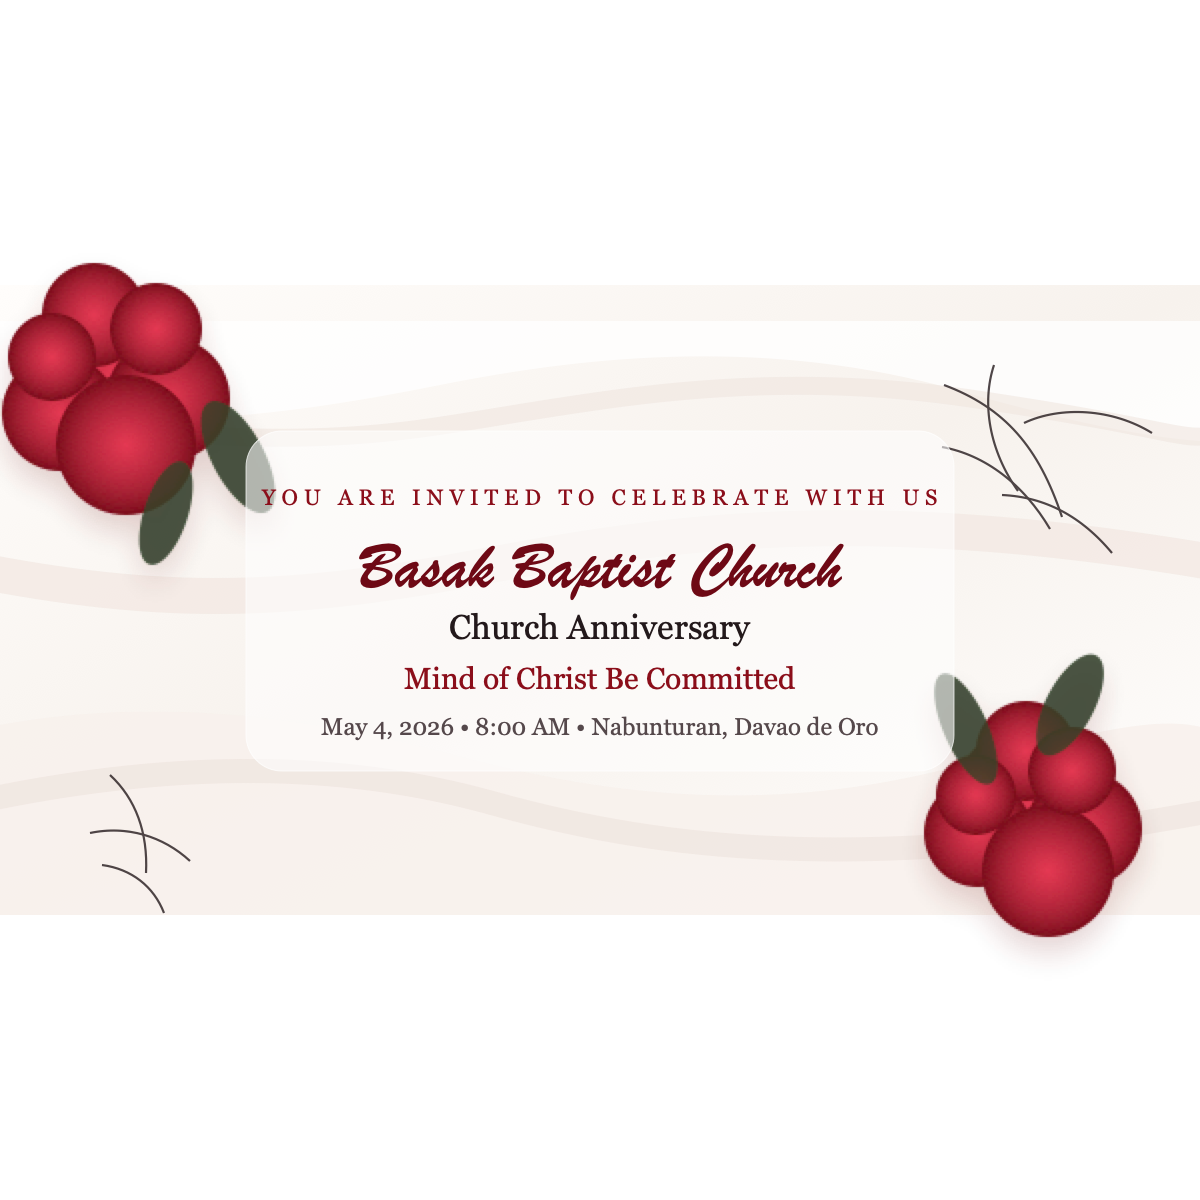
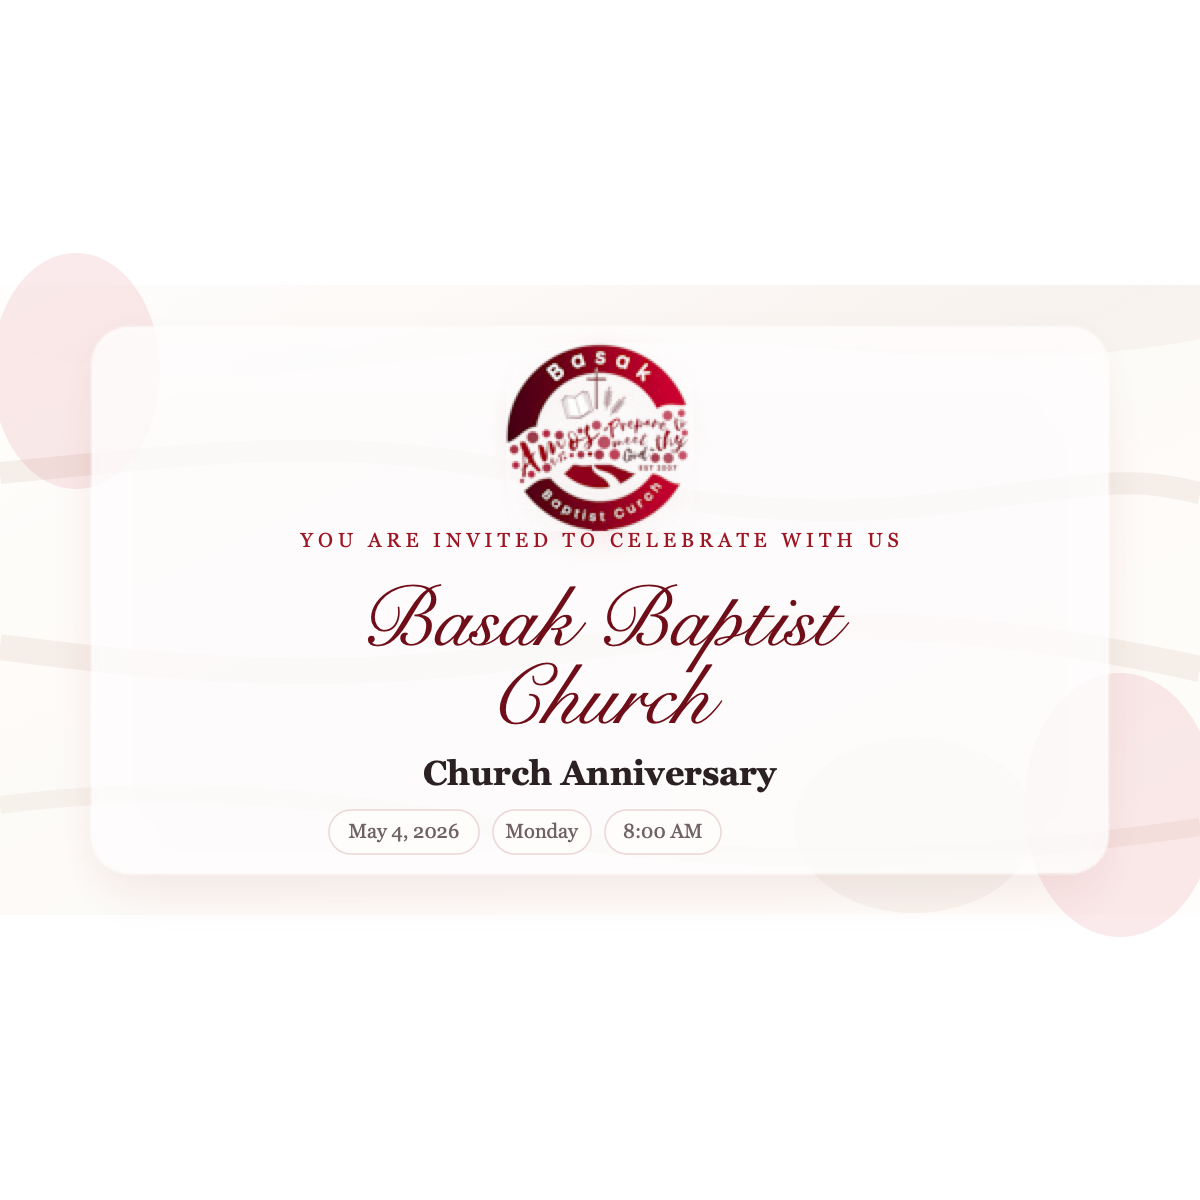
Update OG image and metadata for church anniversary invitation

diff --git a/index.html b/index.html
@@ -15,8 +15,7 @@
     <meta name="author" content="Basak Baptist Church" />
     <meta name="robots" content="index,follow" />
     <meta name="theme-color" content="#8b0e1a" />
-    <!-- Replace example.com with your real deployed URL before sharing publicly so OG previews resolve correctly. -->
-    <link rel="canonical" href="https://example.com/basak-baptist-church-anniversary/" />
+    <link rel="canonical" href="https://bbc-anniv.vercel.app/" />
     <link rel="icon" type="image/png" href="./assets/favicon-logo.png" />
     <link rel="apple-touch-icon" href="./assets/favicon-logo.png" />
 
@@ -26,11 +25,14 @@
       property="og:description"
       content="Join us as we celebrate the Basak Baptist Church Anniversary on May 4, 2026 at 8:00 AM in Nabunturan, Davao de Oro."
     />
-    <meta property="og:image" content="https://example.com/basak-baptist-church-anniversary/assets/og-image-wide.png" />
-    <meta property="og:image:alt" content="Elegant church anniversary invitation with red flowers on a silky white background" />
+    <meta property="og:image" content="https://bbc-anniv.vercel.app/assets/og-image-wide.png" />
+    <meta property="og:image:url" content="https://bbc-anniv.vercel.app/assets/og-image-wide.png" />
+    <meta property="og:image:secure_url" content="https://bbc-anniv.vercel.app/assets/og-image-wide.png" />
+    <meta property="og:image:type" content="image/png" />
+    <meta property="og:image:alt" content="Basak Baptist Church anniversary landing page preview" />
     <meta property="og:image:width" content="1200" />
     <meta property="og:image:height" content="630" />
-    <meta property="og:url" content="https://example.com/basak-baptist-church-anniversary/" />
+    <meta property="og:url" content="https://bbc-anniv.vercel.app/" />
     <meta property="og:type" content="website" />
     <meta property="og:site_name" content="Basak Baptist Church" />
 
@@ -40,7 +42,11 @@
       name="twitter:description"
       content="Join us as we celebrate the Basak Baptist Church Anniversary on May 4, 2026 at 8:00 AM in Nabunturan, Davao de Oro."
     />
-    <meta name="twitter:image" content="https://example.com/basak-baptist-church-anniversary/assets/og-image-wide.png" />
+    <meta name="twitter:image" content="https://bbc-anniv.vercel.app/assets/og-image-wide.png" />
+    <meta name="twitter:image:alt" content="Basak Baptist Church anniversary landing page preview" />
+    <meta name="twitter:url" content="https://bbc-anniv.vercel.app/" />
+
+    <link rel="image_src" href="https://bbc-anniv.vercel.app/assets/og-image-wide.png" />
 
     <link rel="stylesheet" href="./styles.css" />
   </head>

diff --git a/styles.css b/styles.css
@@ -601,7 +601,7 @@ main::before {
 
   .section--location .container,
   .footer .container {
-    max-width: 780px;
+    max-width: 720px;
   }
 
   .section--location .section-kicker {
@@ -614,7 +614,7 @@ main::before {
   }
 
   .section--location .section-heading h2 {
-    font-size: clamp(1.55rem, 2.6vw, 2.15rem);
+    font-size: clamp(1.4rem, 2.35vw, 1.95rem);
   }
 
   .detail-card {
@@ -667,29 +667,29 @@ main::before {
   }
 
   .location-card iframe {
-    min-height: 208px;
+    min-height: 188px;
   }
 
   .location-card__content {
-    gap: 12px;
-    padding: 12px 14px;
+    gap: 10px;
+    padding: 10px 12px;
   }
 
   .location-card__content p {
-    font-size: 0.74rem;
+    font-size: 0.7rem;
   }
 
   .footer {
-    padding: 0 0 46px;
+    padding: 0 0 40px;
   }
 
   .footer p {
-    font-size: 0.76rem;
+    font-size: 0.72rem;
   }
 
   .footer-actions {
-    gap: 7px;
-    margin-top: 10px;
+    gap: 6px;
+    margin-top: 8px;
   }
 }
 
